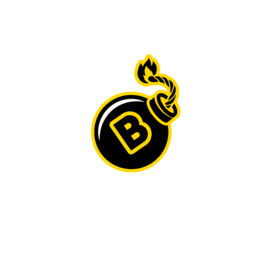
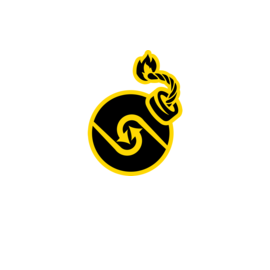
chore: branded to bombswap

Changed region(s): [[0.2963, 0.1778, 0.6815, 0.6519]]

diff --git a/src/components/AppBar.tsx b/src/components/AppBar.tsx
@@ -1,7 +1,7 @@
 import { ChainId, Currency } from '@pegswap/sdk'
 import React, { useEffect, useState } from 'react'
 import { useLocation } from 'react-router-dom'
-import Logo from '../assets/images/bomb-small.png'
+import Logo from '../assets/images/bombswap.png'
 import { useActiveWeb3React } from '../hooks/useActiveWeb3React'
 import { useETHBalances } from '../state/wallet/hooks'
 import { ReactComponent as Burger } from '../assets/images/burger.svg'
@@ -138,6 +138,17 @@ function AppBar(): JSX.Element {
                                                     {i18n._(t`Vaults`)}
                                                 </a>
                                             )}
+                                            {chainId && [ChainId.BOMB].includes(chainId) && (
+                                                <a
+                                                    id={`swap-nav-link`}
+                                                    className="p-2 text-baseline text-primary hover:text-high-emphesis focus:text-high-emphesis md:p-3 whitespace-nowrap"
+                                                    href={'https://vaults.peghub.com/#/bomb'}
+                                                    target="_blank"
+                                                    rel="noreferrer"
+                                                >
+                                                    {i18n._(t`Vaults`)}
+                                                </a>
+                                            )}
                                             {chainId && [ChainId.AVALANCHE].includes(chainId) && (
                                                 <a
                                                     id={`swap-nav-link`}
@@ -163,6 +174,7 @@ function AppBar(): JSX.Element {
                                             {chainId &&
                                                 chainId !== ChainId.BSC &&
                                                 chainId !== ChainId.MATIC &&
+                                                chainId !== ChainId.BOMB &&
                                                 chainId !== ChainId.AVALANCHE && (
                                                     <a
                                                         id={`swap-nav-link`}
@@ -174,16 +186,29 @@ function AppBar(): JSX.Element {
                                                         {i18n._(t`Vaults`)}
                                                     </a>
                                                 )}
-                                            <a
-                                                id={`swap-nav-link`}
-                                                className="p-2 text-baseline text-primary hover:text-high-emphesis focus:text-high-emphesis md:p-3 whitespace-nowrap"
-                                                href={'https://docs.peghub.com/'}
-                                                target="_blank"
-                                                rel="noreferrer"
-                                            >
-                                                {i18n._(t`Docs`)}
-                                            </a>
-                                            {chainId === ChainId.BOMB && (
+                                            {chainId && chainId !== ChainId.BOMB && (
+                                                <a
+                                                    id={`swap-nav-link`}
+                                                    className="p-2 text-baseline text-primary hover:text-high-emphesis focus:text-high-emphesis md:p-3 whitespace-nowrap"
+                                                    href={'https://docs.peghub.com/'}
+                                                    target="_blank"
+                                                    rel="noreferrer"
+                                                >
+                                                    {i18n._(t`Docs`)}
+                                                </a>
+                                            )}
+                                            {chainId && [ChainId.BOMB].includes(chainId) && (
+                                                <a
+                                                    id={`swap-nav-link`}
+                                                    className="p-2 text-baseline text-primary hover:text-high-emphesis focus:text-high-emphesis md:p-3 whitespace-nowrap"
+                                                    href={'https://docs.bombswap.xyz/'}
+                                                    target="_blank"
+                                                    rel="noreferrer"
+                                                >
+                                                    {i18n._(t`Docs`)}
+                                                </a>
+                                            )}
+                                            {chainId && chainId === ChainId.BOMB && (
                                                 <NavLink id={`yield-nav-link`} to={'/stake'}>
                                                     {i18n._(t`Stake`)}
                                                 </NavLink>
@@ -264,7 +289,7 @@ function AppBar(): JSX.Element {
                                                                         symbol: 'BOMBSWAP',
                                                                         decimals: 18,
                                                                         image:
-                                                                            'https://raw.githubusercontent.com/bombmoney/bomb-assets/master/bombswap.jpeg'
+                                                                            'https://raw.githubusercontent.com/bombmoney/bomb-assets/master/bombswap.png'
                                                                     }
                                                                 }
 
@@ -599,7 +624,7 @@ function AppBar(): JSX.Element {
                                 </NavLink>
                                 <a
                                     id={`swap-nav-link`}
-                                    className="text-baseline text-primary hover:text-high-emphesis focus:text-high-emphesis p-2 md:p-3 whitespace-nowrap"
+                                    className="p-2 text-baseline text-primary hover:text-high-emphesis focus:text-high-emphesis md:p-3 whitespace-nowrap"
                                     href={'https://app.bomb.money/'}
                                     target="_blank"
                                     rel="noreferrer"
@@ -608,7 +633,7 @@ function AppBar(): JSX.Element {
                                 </a>
                                 <a
                                     id={`swap-nav-link`}
-                                    className="text-baseline text-primary hover:text-high-emphesis focus:text-high-emphesis p-2 md:p-3 whitespace-nowrap"
+                                    className="p-2 text-baseline text-primary hover:text-high-emphesis focus:text-high-emphesis md:p-3 whitespace-nowrap"
                                     href={'https://app.bitbomb.io/'}
                                     target="_blank"
                                     rel="noreferrer"
@@ -626,7 +651,7 @@ function AppBar(): JSX.Element {
                                 </a>
                                 <a
                                     id={`swap-nav-link`}
-                                    className="text-baseline text-primary hover:text-high-emphesis focus:text-high-emphesis p-2 md:p-3 whitespace-nowrap"
+                                    className="p-2 text-baseline text-primary hover:text-high-emphesis focus:text-high-emphesis md:p-3 whitespace-nowrap"
                                     href={'https://www.snowpegs.com/'}
                                     target="_blank"
                                     rel="noreferrer"
@@ -635,7 +660,7 @@ function AppBar(): JSX.Element {
                                 </a>
                                 <a
                                     id={`swap-nav-link`}
-                                    className="text-baseline text-primary hover:text-high-emphesis focus:text-high-emphesis p-2 md:p-3 whitespace-nowrap"
+                                    className="p-2 text-baseline text-primary hover:text-high-emphesis focus:text-high-emphesis md:p-3 whitespace-nowrap"
                                     href={'https://www.polypegs.com/'}
                                     target="_blank"
                                     rel="noreferrer"

diff --git a/src/pages/SushiBar/BalanceCard.tsx b/src/pages/SushiBar/BalanceCard.tsx
@@ -1,7 +1,7 @@
 import { BalanceProps } from '../../hooks/useTokenBalance'
 import React from 'react'
-import SushiImage from '../../assets/images/sushi.png'
-import XSushiImage from '../../assets/images/xsushi.png'
+import BombSwap from '../../assets/images/bombswap.png'
+import XBombSwap from '../../assets/images/xbombswap.png'
 import Bomb from '../../assets/images/bomb.png'
 import { formatFromBalance } from '../../utils'
 import { t } from '@lingui/macro'
@@ -31,7 +31,7 @@ export default function BalanceCard({
                         {i18n._(t`Balance`)}
                     </p>
                     <div className="flex items-center">
-                        <img className="w-10 md:w-16 -ml-1 mr-1 md:mr-2 -mb-1.5" src={Bomb} alt="sushi" />
+                        <img className="w-10 md:w-16 -ml-1 mr-1 md:mr-2 -mb-1.5" src={XBombSwap} alt="XBombSwap" />
                         <div className="flex flex-col justify-center">
                             <p className="font-bold text-caption2 md:text-lg text-high-emphesis">
                                 {formatFromBalance(xSushiBalance.value)}
@@ -49,7 +49,7 @@ export default function BalanceCard({
                         {/* <img className="w-4 ml-2 cursor-pointer" src={MoreInfoSymbol} alt={'more info'} /> */}
                     </div>
                     <div className="flex items-center ml-8 md:ml-0">
-                        <img className="w-10 md:w-16 -ml-1 mr-1 md:mr-2 -mb-1.5" src={Bomb} alt="sushi" />
+                        <img className="w-10 md:w-16 -ml-1 mr-1 md:mr-2 -mb-1.5" src={BombSwap} alt="BombSwap" />
                         <div className="flex flex-col justify-center">
                             <p className="font-bold text-caption2 md:text-lg text-high-emphesis">
                                 {formatFromBalance(sushiBalance.value)}
@@ -70,7 +70,7 @@ export default function BalanceCard({
                             <p className="ml-5 text-caption text-primary md:ml-0">{`${weightedApr}%`}</p>
                         </div>
                     </div> */}
-                    {account && (
+                    {/* {account && (
                         <a
                             href={`https://analytics.sushi.com/users/${account}`}
                             target="_blank"
@@ -85,7 +85,7 @@ export default function BalanceCard({
                         >
                             {i18n._(t`Your SushiBar Stats`)}
                         </a>
-                    )}
+                    )} */}
                 </div>
             </div>
         </div>

diff --git a/public/index.html b/public/index.html
@@ -3,18 +3,19 @@
     <head>
         <meta charset="utf-8" />
 
-<link rel="apple-touch-icon" sizes="180x180" href="/apple-touch-icon.png?v=2">
-<link rel="icon" type="image/png" sizes="32x32" href="/favicon-32x32.png?v=2">
-<link rel="icon" type="image/png" sizes="16x16" href="/favicon-16x16.png?v=2">
-<link rel="manifest" href="/site.webmanifest?v=2">
-<link rel="mask-icon" href="/safari-pinned-tab.svg?v=2" color="#fcb328">
+
+
 <link rel="shortcut icon" href="/favicon.ico?v=2">
 <meta name="apple-mobile-web-app-title" content="BOMB Swap">
 <meta name="application-name" content="BOMB Swap">
+
+
+<link rel="apple-touch-icon" sizes="180x180" href="/apple-touch-icon.png">
+<link rel="icon" type="image/png" sizes="32x32" href="/favicon-32x32.png">
+<link rel="icon" type="image/png" sizes="16x16" href="/favicon-16x16.png">
+<link rel="manifest" href="/site.webmanifest">
+<link rel="mask-icon" href="/safari-pinned-tab.svg" color="#5bbad5">
 <meta name="msapplication-TileColor" content="#da532c">
-<meta name="theme-color" content="#ffffff">
-
-
 
         <meta name="viewport" content="width=device-width, initial-scale=1" />
         <meta name="theme-color" content="#ff007a" />

diff --git a/src/state/lists/hooks.ts b/src/state/lists/hooks.ts
@@ -2,7 +2,7 @@ import { ChainId, Token } from '@pegswap/sdk'
 import { Tags, TokenInfo, TokenList } from '@uniswap/token-lists'
 
 import { AppState } from '../index'
-import DEFAULT_TOKEN_LIST from '@pegswap/default-token-list'
+import DEFAULT_TOKEN_LIST from '@bombmoney/default-token-list'
 import { UNSUPPORTED_LIST_URLS } from './../../constants/lists'
 import UNSUPPORTED_TOKEN_LIST from '../../constants/token-lists/sushiswap-v2-unsupported.tokenlist.json'
 import sortByListPriority from 'utils/listSort'
